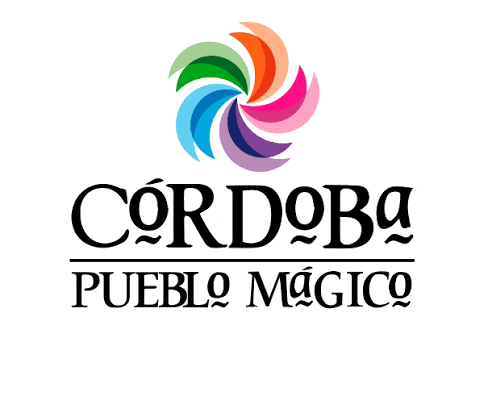
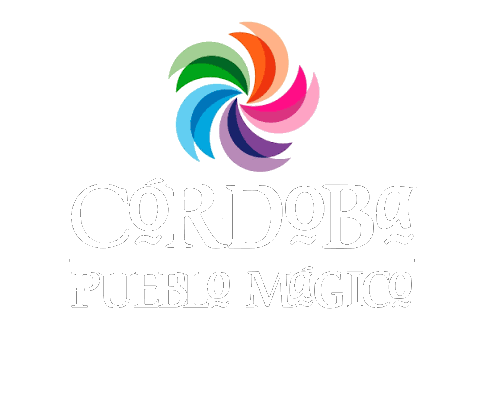
Convert_Pueblo_Magico_text_to_white_for_dark_video_background

Changed region(s): [[0.123, 0.4401, 0.8607, 0.7628]]

diff --git a/src/sections/Hero.jsx b/src/sections/Hero.jsx
@@ -31,12 +31,12 @@ export default function Hero() {
           />
         </div>
 
-        {/* Pueblo Mágico Standalone Logo (Centered below Virreynal logo) */}
+        {/* Pueblo Mágico Standalone Logo (White text, centered below Virreynal logo) */}
         <div className="mb-8 flex justify-center animate-in fade-in slide-in-from-bottom-4 duration-700">
           <img
             src="/images/pueblo-magico.png"
             alt="Córdoba Pueblo Mágico"
-            className="h-14 sm:h-20 md:h-24 w-auto object-contain filter drop-shadow-[0_0_12px_rgba(255,255,255,0.85)] drop-shadow-[0_4px_12px_rgba(0,0,0,0.9)] hover:scale-105 transition-transform duration-300"
+            className="h-14 sm:h-20 md:h-24 w-auto object-contain filter drop-shadow-[0_4px_14px_rgba(0,0,0,0.85)] hover:scale-105 transition-transform duration-300"
           />
         </div>
 
